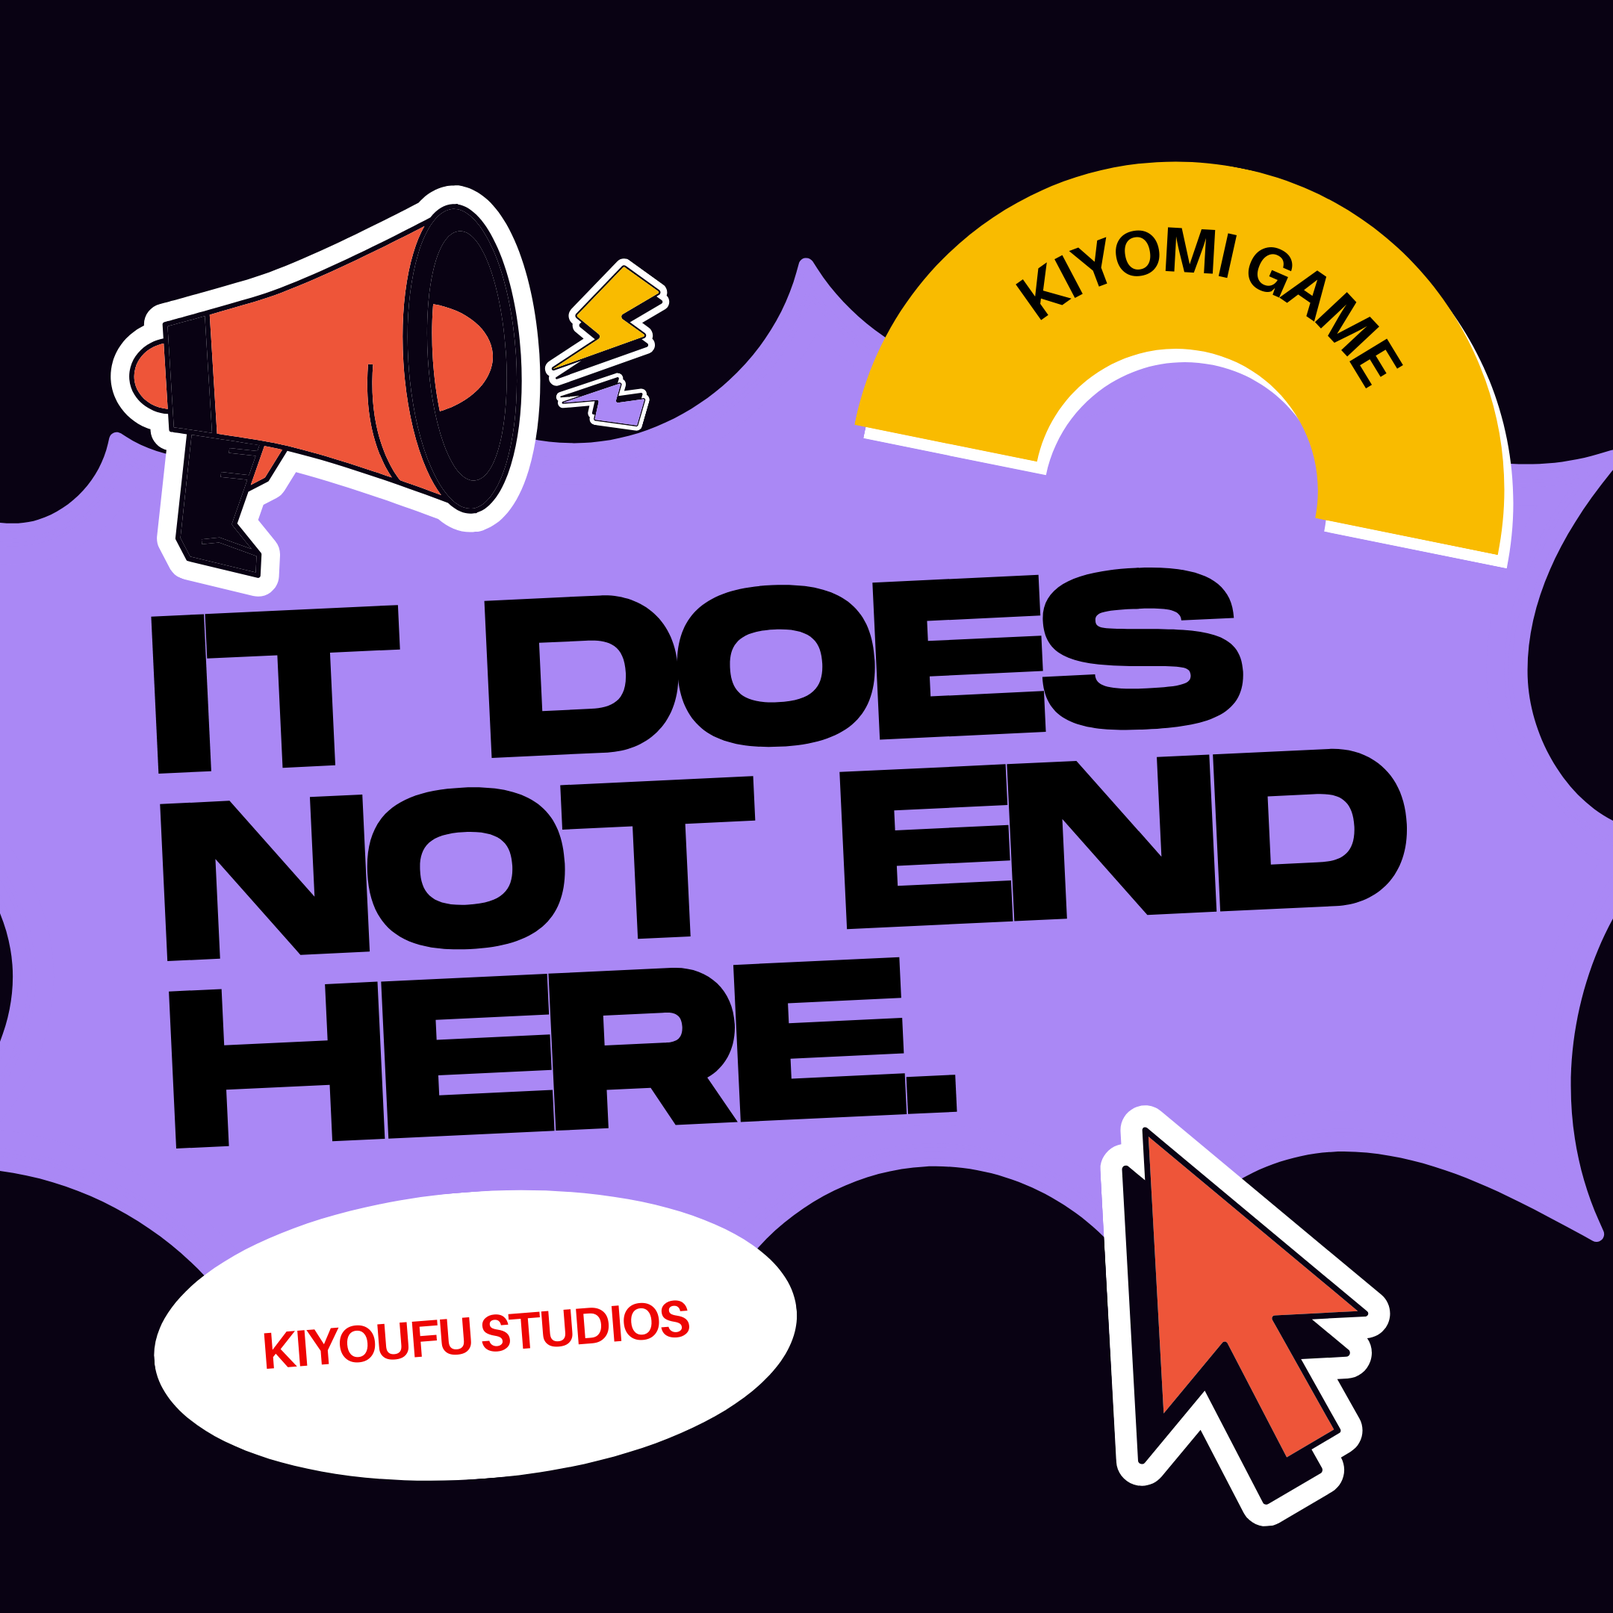
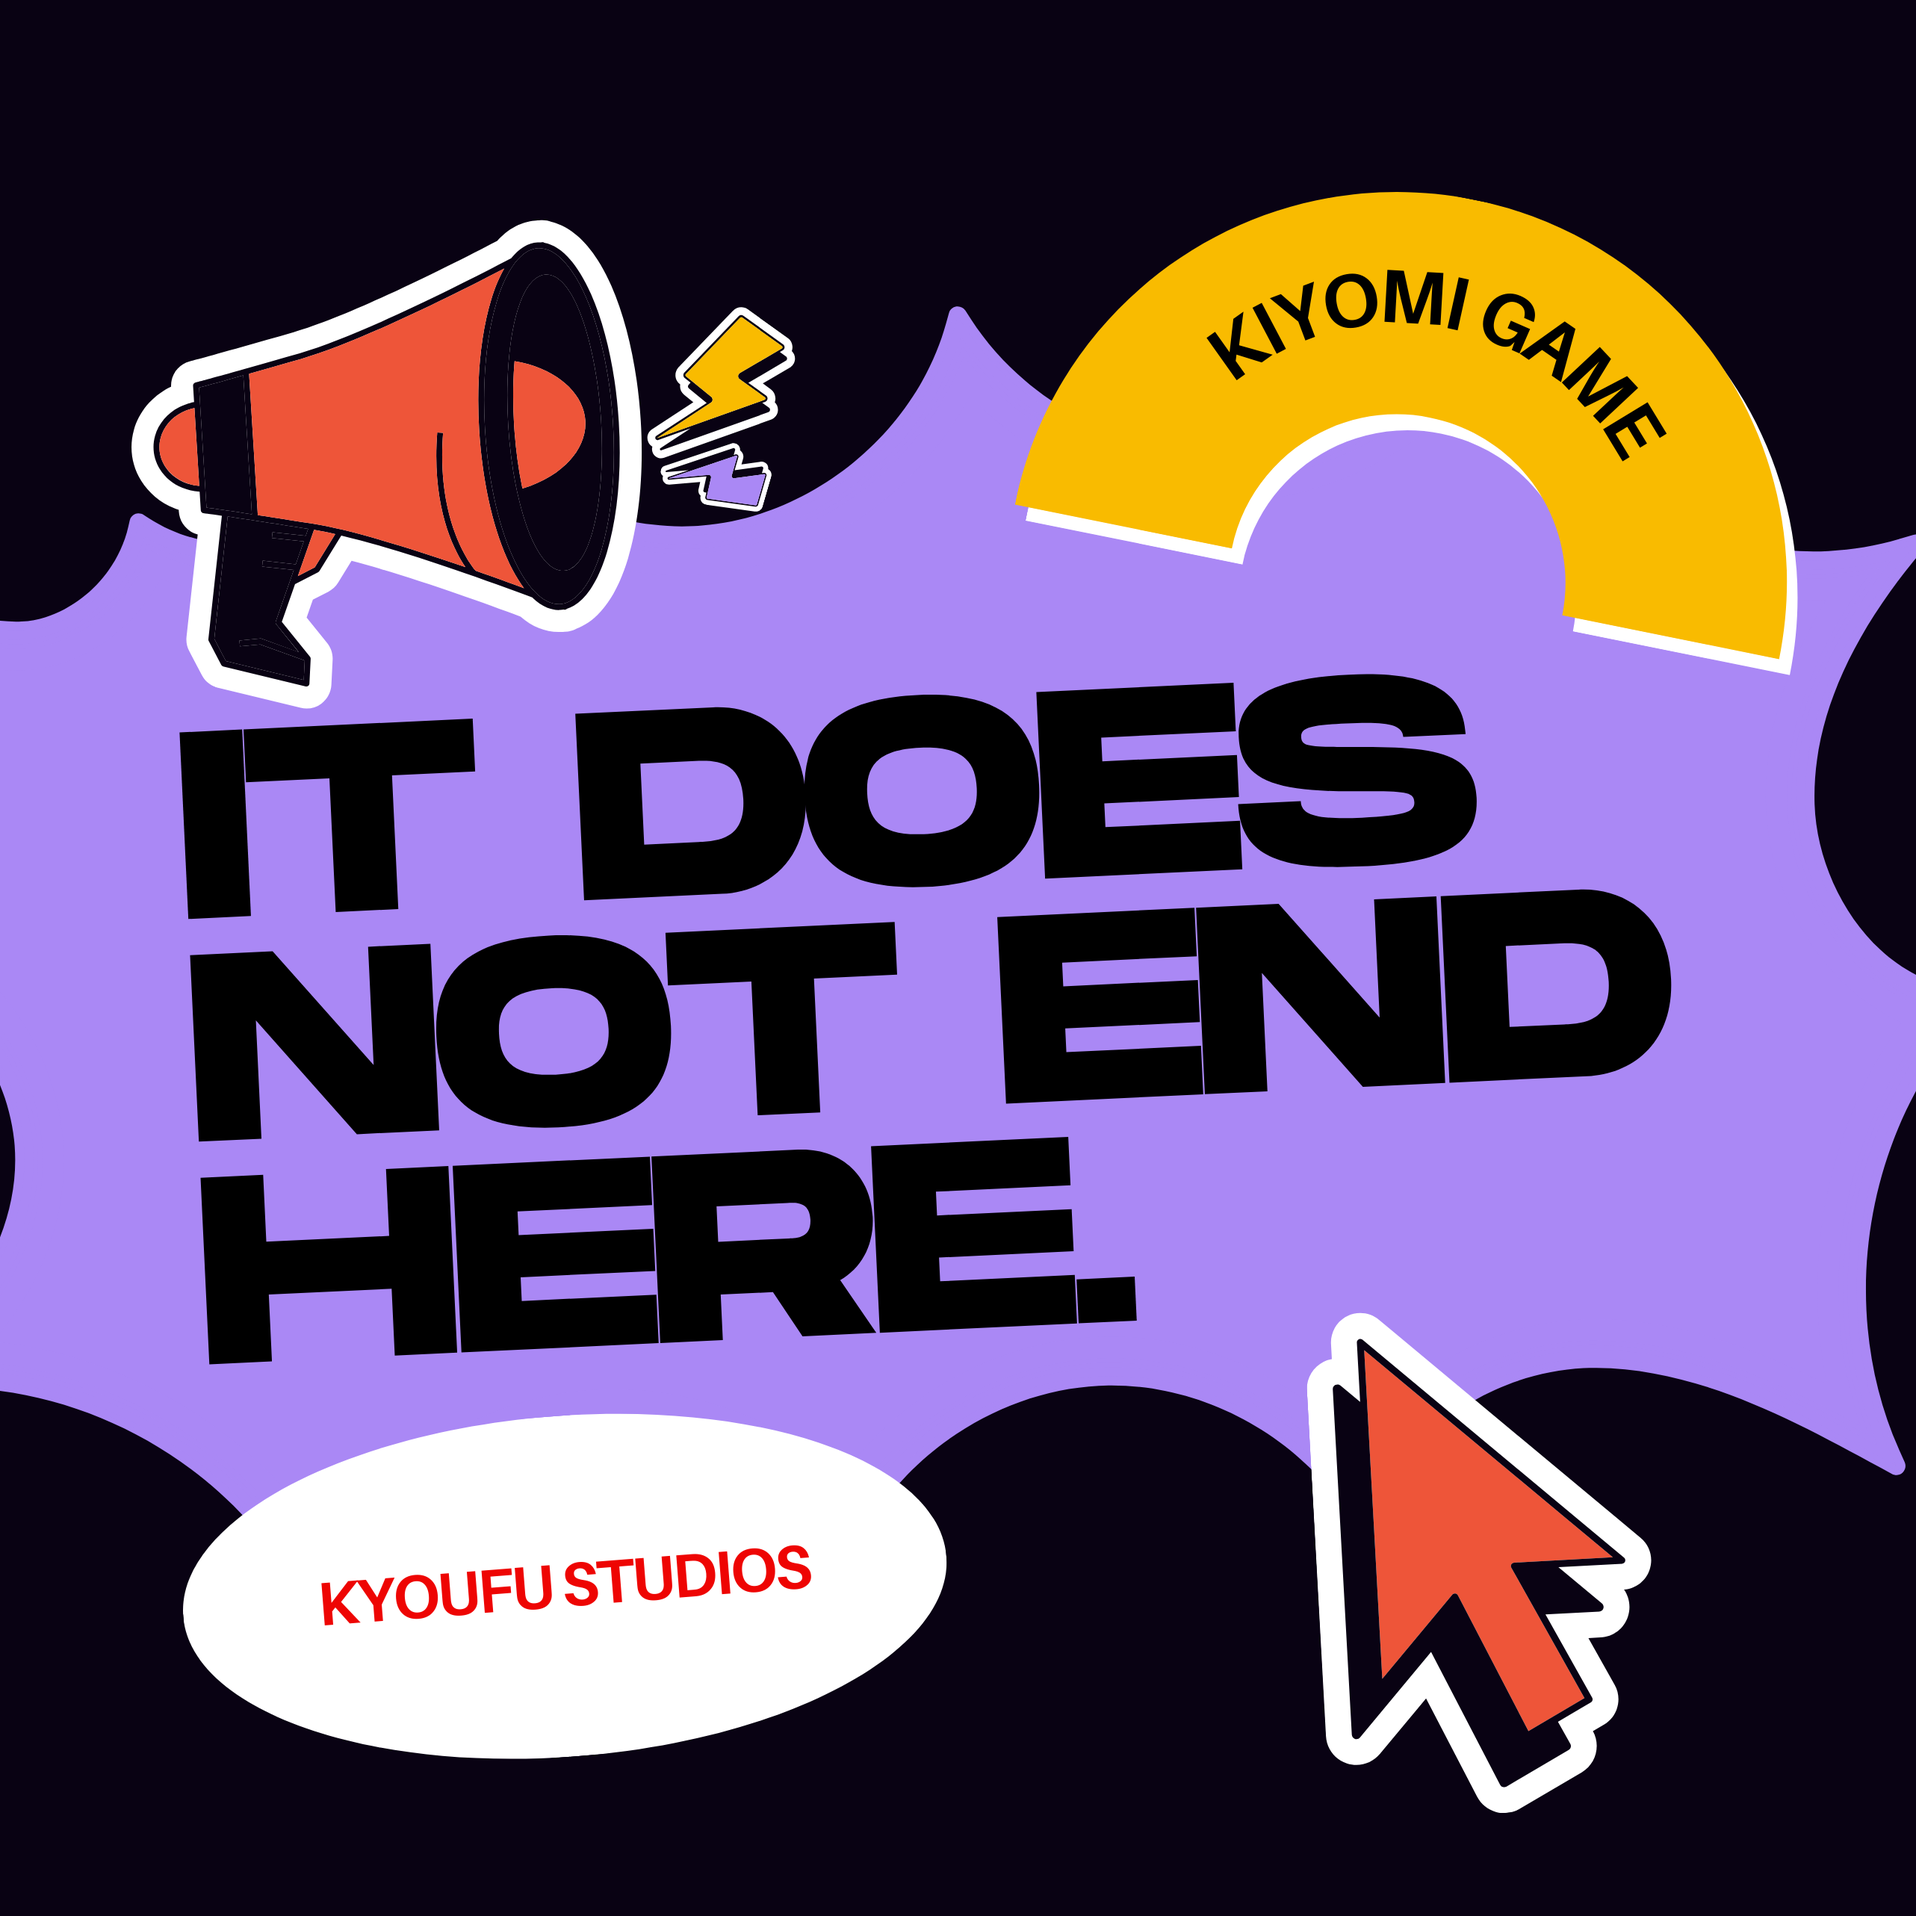
Application done, all changes are finished

Changed region(s): [[0.1551, 0.8065, 0.4343, 0.8685], [0.3412, 0.2171, 0.3722, 0.2481]]

diff --git a/lib/download_screen.dart b/lib/download_screen.dart
@@ -5,7 +5,7 @@ import 'package:kiyomi/components/header.dart';
 
 
 class DownloadScreen extends StatelessWidget {
-  final String gameUrl = 'https://kiyomibykiyoufu.netlify.app/';
+  final String gameUrl = 'https://kiyomibykyoufu.netlify.app/';
 
   @override
   Widget build(BuildContext context) {
@@ -41,7 +41,7 @@ class DownloadScreen extends StatelessWidget {
               // Botón para redirigir a la web
               ElevatedButton(
                 onPressed: () async {
-                  final Uri url = Uri.parse('https://kiyomibykiyoufu.netlify.app');
+                  final Uri url = Uri.parse('https://kiyomibykyoufu.netlify.app/');
                   if (await canLaunchUrl(url)) {
                     await launchUrl(url);
                   } else {
